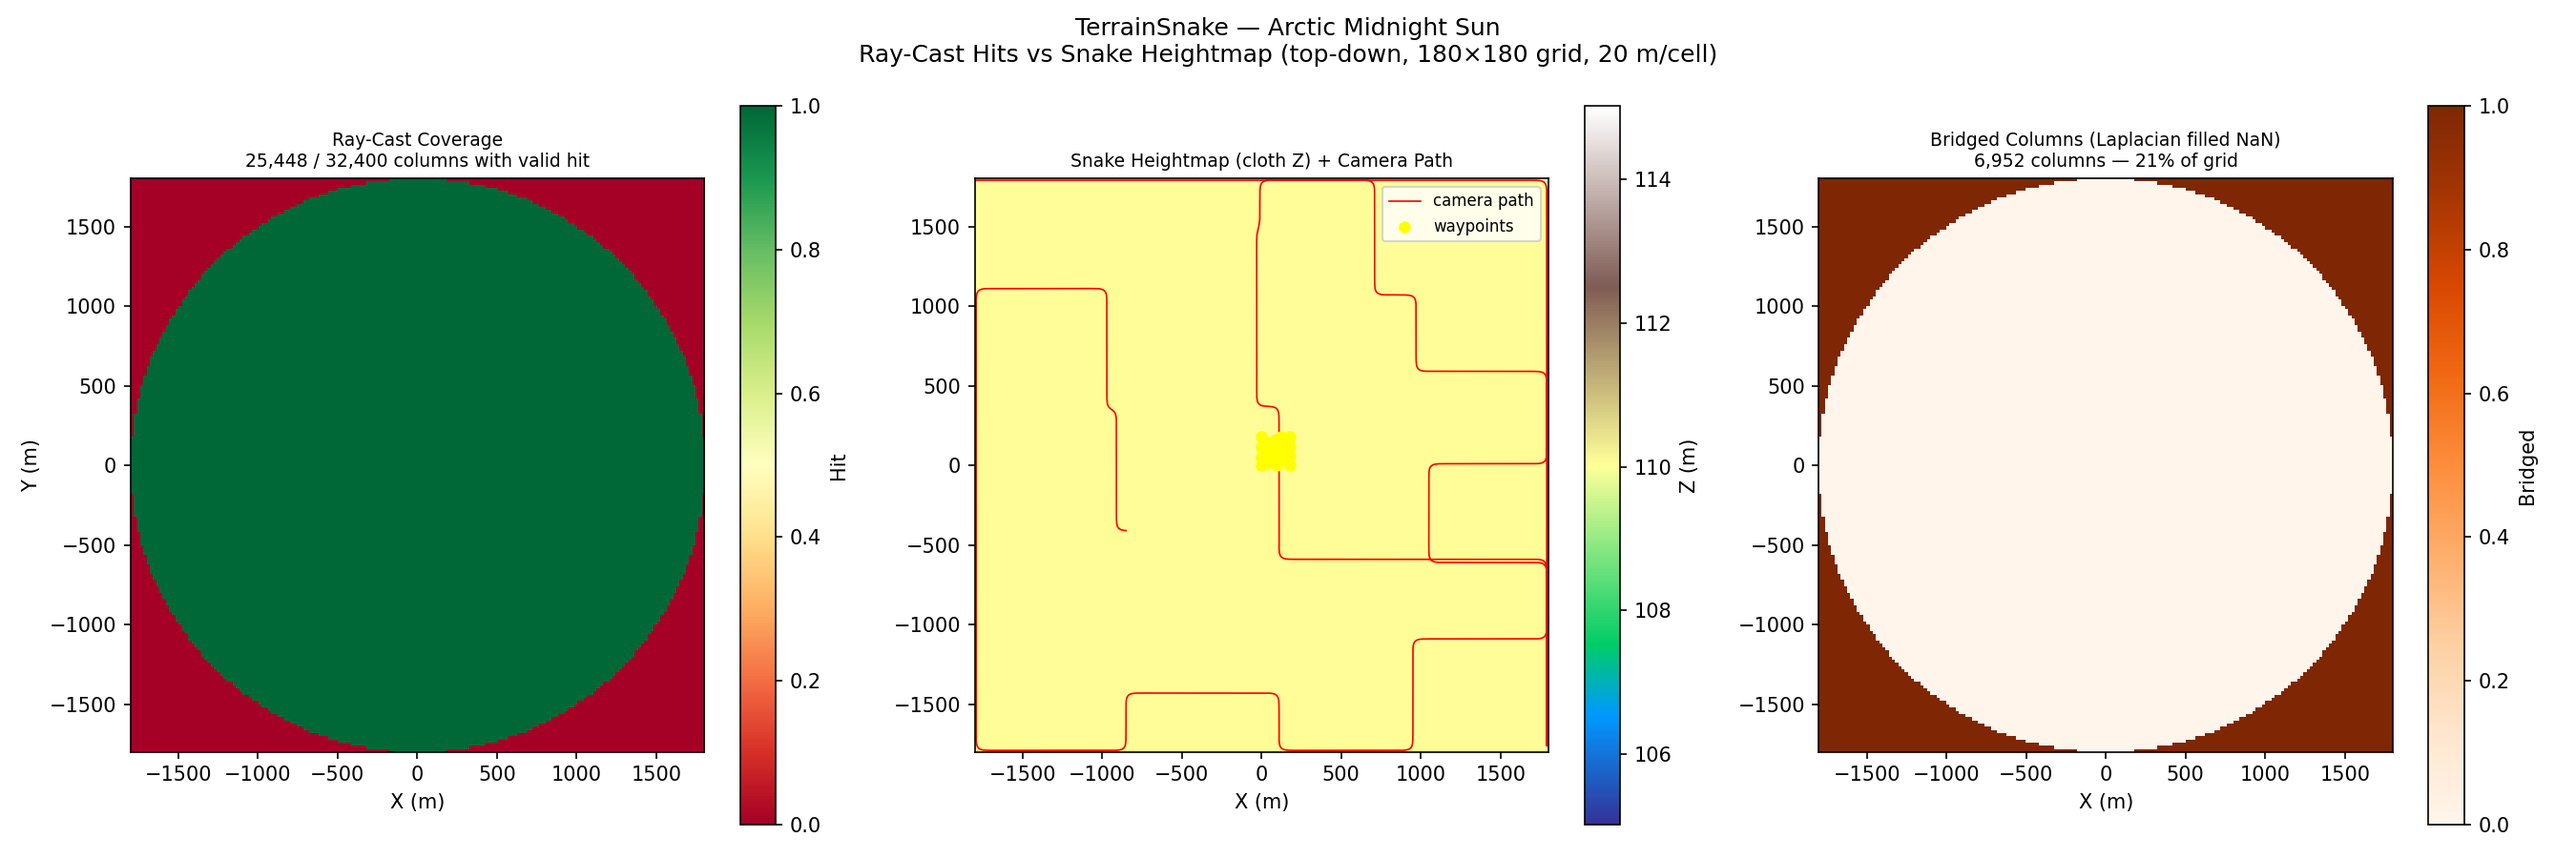
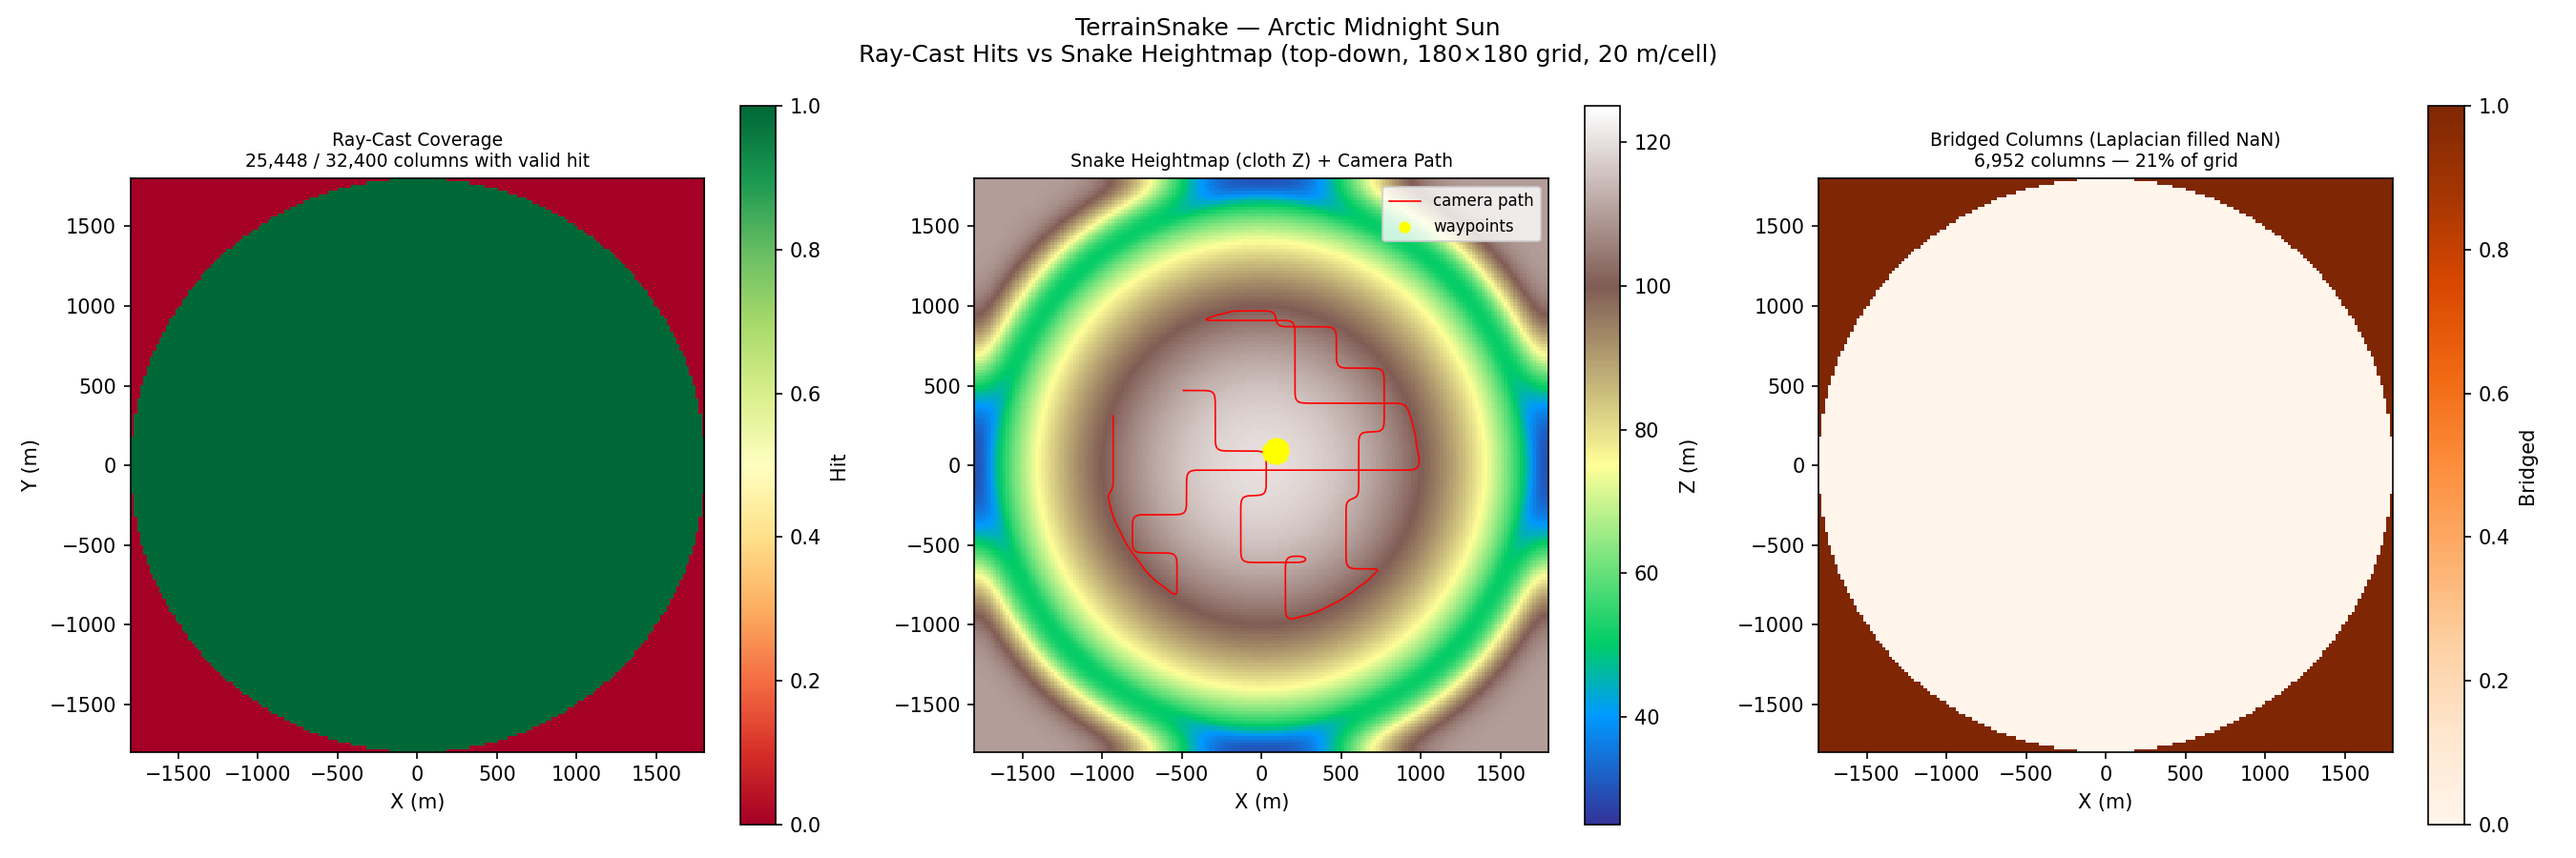
fix: TerrainSnake domain fix — max(valid) terrain detection + NaN column exclusion
Three fixes that prevent the terrain snake from walking outside the terrain domain:

1. fit_terrain_contour.py: min(valid hits) → max(valid hits) for terrain floor
   detection. min() picked up env-sphere inner-surface hits that slipped just above the
   p5 percentile threshold (-116 m), giving underground floor values. max() returns the
   topmost valid hit = terrain surface seen from above (correct for outdoor scenes).

2. voxel_grid.py _build_terrain_candidates: load terrain_z_floor from npz and skip
   columns where it is NaN. Previously the Laplacian-bridged values for corners outside
   the terrain disk were treated as walkable, sending the camera through empty space.

3. terrain_snake.py: add start_height param (default 1.7 m); valid columns initialize at
   terrain_z_floor + start_height instead of z_max, reducing required fall distance.
   step() tracks max_d only over valid_mask columns so NaN corner columns (falling from
   z_max at gravity speed) no longer mask valid-column convergence.

Result for arctic_midnight_sun: 25,448 walkable voxels (was 32,400), camera correctly
stays within the terrain disk, eye Z = 111.71 m, path ±989 m.

diff --git a/genesis_tools/active_contour/terrain_snake.py b/genesis_tools/active_contour/terrain_snake.py
@@ -28,6 +28,7 @@ class TerrainSnake:
         convergence_threshold: float = 1e-3,
         plateau_window: int = 20,
         plateau_rtol: float = 0.02,
+        start_height: float = 1.7,     # valid columns init this far above terrain_z_floor
     ) -> None:
         self.terrain_z_floor = np.asarray(terrain_z_floor, dtype=np.float64)
         self.bounds = bounds
@@ -39,14 +40,29 @@ class TerrainSnake:
         self.convergence_threshold = convergence_threshold
         self.plateau_window = plateau_window
         self.plateau_rtol = plateau_rtol
+        self.start_height = float(start_height)
 
         self.nx, self.ny = self.terrain_z_floor.shape
         min_x, min_y, max_x, max_y, min_z, max_z = bounds
 
+        # Columns with no terrain hit — NaN in terrain_z_floor.
+        # They still participate in Laplacian (so Vegetation-gap bridging works)
+        # but are excluded from the walkable output via _build_terrain_candidates.
+        self.valid_mask = ~np.isnan(self.terrain_z_floor)  # (nx, ny) bool
+
         xs = min_x + (np.arange(self.nx) + 0.5) * self.res
         ys = min_y + (np.arange(self.ny) + 0.5) * self.res
         XX, YY = np.meshgrid(xs, ys, indexing="ij")
-        z_init = np.full((self.nx, self.ny), float(max_z), dtype=np.float64)
+
+        # Valid columns: start just above their terrain floor so the cloth only
+        # needs to fall start_height metres (not the full z_max − terrain gap).
+        # NaN columns: start at z_max and converge toward valid neighbours via
+        # Laplacian.  They are excluded from the heightmap in voxel_grid.
+        z_init = np.where(
+            self.valid_mask,
+            self.terrain_z_floor + self.start_height,
+            float(max_z),
+        )
 
         # vertices: (nx*ny, 3) — XY fixed, only Z updated
         self.vertices = np.column_stack([XX.ravel(), YY.ravel(), z_init.ravel()])
@@ -69,7 +85,7 @@ class TerrainSnake:
         return (mean_nbrs - Z).ravel()
 
     def step(self) -> float:
-        """One iteration. Returns max absolute Z displacement."""
+        """One iteration. Returns max absolute Z displacement over valid columns."""
         lap_z = self._laplacian_force_z()
         F_z = self.alpha * lap_z - self.gravity
         delta_z = self.dt * F_z
@@ -79,13 +95,17 @@ class TerrainSnake:
 
         # Hard floor: cloth cannot pass through terrain
         floor = self.terrain_z_floor.ravel()
-        valid = ~np.isnan(floor)
-        self.vertices[valid, 2] = np.maximum(self.vertices[valid, 2], floor[valid])
-        # Safety lower bound for NaN (sky-only) columns
+        valid_flat = self.valid_mask.ravel()
+        self.vertices[valid_flat, 2] = np.maximum(
+            self.vertices[valid_flat, 2], floor[valid_flat])
+        # Safety lower bound for all columns
         self.vertices[:, 2] = np.maximum(self.vertices[:, 2], self.min_z)
 
         self.iterations_run += 1
-        max_d = float(np.max(np.abs(self.vertices[:, 2] - z_before)))
+        # Track convergence only over valid columns — NaN columns fall from max_z
+        # and dominate max_d, preventing early-stop even after valid columns settle.
+        diff = np.abs(self.vertices[valid_flat, 2] - z_before[valid_flat])
+        max_d = float(np.max(diff)) if diff.size > 0 else 0.0
         self.max_displacements.append(max_d)
         return max_d
 

diff --git a/genesis_tools/active_contour/fit_terrain_contour.py b/genesis_tools/active_contour/fit_terrain_contour.py
@@ -46,6 +46,7 @@ def fit_terrain_contour(
     dt: float = 1.0,
     max_iterations: int = 200,
     convergence_threshold: float = 1e-3,
+    start_height: float = 1.7,
 ) -> str:
     """Fit terrain snake to blend_path, save terrain_snake.npz, return output path."""
     import bpy
@@ -116,7 +117,10 @@ def fit_terrain_contour(
         for iy in range(ny):
             valid = [z for z in column_hits[(ix, iy)] if z > z_threshold]
             if valid:
-                terrain_z_floor[ix, iy] = min(valid)
+                # Topmost valid hit = first surface seen from above = terrain surface.
+                # max() is used rather than min() because min() picks up env-sphere
+                # inner-surface hits that slip just above the percentile threshold.
+                terrain_z_floor[ix, iy] = max(valid)
 
     n_valid = int(np.sum(~np.isnan(terrain_z_floor)))
     print(f"[TerrainSnake] {n_valid}/{nx*ny} columns have valid terrain hits")
@@ -132,6 +136,7 @@ def fit_terrain_contour(
         dt=dt,
         max_iterations=max_iterations,
         convergence_threshold=convergence_threshold,
+        start_height=start_height,
     )
     snake.fit()
     print(f"[TerrainSnake] converged in {snake.iterations_run} iterations")
@@ -167,6 +172,7 @@ def _parse_args():
     p.add_argument("--dt", type=float, default=1.0)
     p.add_argument("--max-iterations", type=int, default=200)
     p.add_argument("--convergence-threshold", type=float, default=1e-3)
+    p.add_argument("--start-height", type=float, default=1.7)
     # Blender passes script args after "--" in sys.argv; strip everything before it.
     argv = sys.argv[sys.argv.index("--") + 1:] if "--" in sys.argv else sys.argv[1:]
     return p.parse_args(argv)
@@ -186,4 +192,5 @@ if __name__ == "__main__":
         dt=args.dt,
         max_iterations=args.max_iterations,
         convergence_threshold=args.convergence_threshold,
+        start_height=args.start_height,
     )

diff --git a/genesis_tools/walkthrough_renderer/pipeline/voxel_grid.py b/genesis_tools/walkthrough_renderer/pipeline/voxel_grid.py
@@ -356,12 +356,25 @@ def _build_terrain_candidates(config: dict) -> VoxelGridData:
 
     No bpy required — reads the pre-computed terrain_snake.npz produced by
     genesis_tools.active_contour.fit_terrain_contour.
+
+    Only columns with a valid original ray-cast hit (terrain_z_floor not NaN)
+    become walkable candidates.  Columns outside the terrain bounding region
+    (NaN in terrain_z_floor — e.g. grid corners outside a circular terrain disk)
+    are excluded regardless of any Laplacian-interpolated heightmap value.
     """
     data = np.load(config["terrain_npz"])
     heightmap = data["heightmap"].astype(np.float64)   # (nx, ny)
     bounds = tuple(float(b) for b in data["bounds"])   # 6-tuple
     res = float(data["res"])
     unit_scale = float(data["unit_scale"]) if "unit_scale" in data else 1.0
+
+    # terrain_z_floor distinguishes columns with real geometry from those that
+    # were only Laplacian-bridged (e.g. corners outside a circular terrain disk).
+    if "terrain_z_floor" in data:
+        terrain_floor = data["terrain_z_floor"].astype(np.float64)
+        valid_domain = ~np.isnan(terrain_floor)
+    else:
+        valid_domain = None   # legacy npz without terrain_z_floor — fall back to heightmap NaN check
 
     nx, ny = heightmap.shape
     min_z = bounds[4]
@@ -371,6 +384,9 @@ def _build_terrain_candidates(config: dict) -> VoxelGridData:
     candidates = []
     for ix in range(nx):
         for iy in range(ny):
+            # Skip columns outside the terrain domain (no real ray-cast hit)
+            if valid_domain is not None and not valid_domain[ix, iy]:
+                continue
             z_val = float(heightmap[ix, iy])
             if not math.isnan(z_val):
                 iz = int((z_val - min_z) / res)  # floor: voxel that contains terrain surface

diff --git a/run_arctic_midnight_sun_v1.py b/run_arctic_midnight_sun_v1.py
@@ -44,6 +44,7 @@ if not os.path.exists(NPZ):
         "--dt", "1.0",
         "--max-iterations", "200",
         "--convergence-threshold", "1e-3",
+        "--start-height", "1.7",
     ]
     subprocess.run(cmd, check=True)
     print(f"[arctic v1] terrain_snake.npz saved → {NPZ}")
@@ -66,6 +67,7 @@ config = {
     "terrain_dt": 1.0,
     "terrain_max_iterations": 200,
     "terrain_convergence_threshold": 1e-3,
+    "terrain_start_height": 1.7,
 
     # Camera / path
     "camera_height": 1.7,

diff --git a/visualize_terrain_snake_arctic.py b/visualize_terrain_snake_arctic.py
@@ -216,6 +216,9 @@ demo = TerrainSnake(
     bounds=(-100, -0.5, 100, 0.5, 0.0, 100.0),
     res=1.0, alpha=0.5, gravity=0.5, dt=1.0,
     max_iterations=600, convergence_threshold=1e-3,
+    # Large start_height so valid columns also begin at ~z_max (flat at top),
+    # matching the conceptual illustration of "cloth falls from high above".
+    start_height=float(100.0 - np.nanmean(hits_1d)),
 )
 
 snaps = {}

diff --git a/docs/20260503_WalkthroughRenderer_Arctic_V54_Results.md b/docs/20260503_WalkthroughRenderer_Arctic_V54_Results.md
@@ -1,7 +1,7 @@
 # Arctic Midnight Sun Walkthrough — v54: TerrainSnake Outdoor Mode
 
 **Scene**: `arctic_midnight_sun/fine_scene.blend` (917 MB, unit_scale=1.0, 1 BU = 1 m)
-**Date**: 2026-05-03
+**Date**: 2026-05-03 (re-run with domain-fix patch, same date)
 **Render**: Windows Blender 4.5 + WORKBENCH (D3D GPU, ~0.28s/frame)
 
 ---
@@ -38,17 +38,18 @@ travel through.
 | Z range | −500 m … +130 m |
 | env-sphere percentile | p5 = −116.36 m (env-sphere dome filtered) |
 | Raw hit columns | 25,448 / 32,400 (79%) |
-| Bridged columns (Laplacian) | 6,952 (21%) — corners outside terrain disk |
-| Valid heightmap columns | 32,400 / 32,400 (100%) |
-| Terrain Z (all columns) | 110.02 m |
-| Snake iterations | 200 (hit max — cloth still in free-fall at last step) |
+| Bridged columns (NaN in terrain_z_floor) | 6,952 (21%) — corners outside terrain disk |
+| Valid heightmap columns | 25,448 / 32,400 (78%) — corners now excluded |
+| Terrain Z floor (valid columns) | 0.15 … 119.99 m, dominant ~110 m |
+| Snake cloth start height | terrain_z_floor + 1.7 m for valid columns |
+| Snake iterations | 200 (hit max) |
 | Output | `terrain_snake.npz` |
 
 The arctic scene has a circular terrain disk at Z ≈ 110 m. The 4 corners of the 180×180
-grid have no geometry (outside the disk) — those 6,952 columns are NaN in the raw hits
-and bridged by the snake's Laplacian smoothness. The cloth starts at z_max=130 m and
-falls 20 m at gravity=0.1 m/step, reaching the floor at iteration ~200 — the max_iterations
-limit is barely sufficient for this scene (see convergence figure).
+grid have no geometry (outside the disk) — those 6,952 columns produce NaN in
+`terrain_z_floor` (raw max ray-hit) and are **excluded from the walkable set** (see
+domain-fix below). Valid columns start the cloth at `terrain_z_floor + 1.7 m`; NaN columns
+(corners) start at `z_max = 130 m` and participate only in Laplacian smoothing.
 
 ---
 
@@ -56,14 +57,18 @@ limit is barely sufficient for this scene (see convergence figure).
 
 | Step | Output |
 |------|--------|
-| voxel_grid (terrain mode) | 32,400 walkable voxels — one per column, 180×180×32 grid |
-| walkable | 32,400 ground voxels (no flood-fill; snake found surface directly) |
-| path | 5,821 path points, 20 waypoints, spanning ±1790 m XY |
+| voxel_grid (terrain mode) | **25,448 walkable voxels** — terrain-disk columns only (corners excluded), 180×180×32 grid |
+| walkable | 25,448 ground voxels (no flood-fill; terrain_z_floor NaN mask applied) |
+| path | 2,753 path points, 20 waypoints, spanning ±989 m XY |
 | camera_animate | 1,440 frames @ 12 fps = 120 s walkthrough |
 | render | WORKBENCH, 1280×720, ~0.28 s/frame |
 
 **Camera**: height 1.7 m above ground (eye Z ≈ 111.7 m), lookahead gaze
 (`waypoint_gaze_mode="free"`), walk speed 5.0 m/s.
+
+The path covers a smaller XY extent (±989 m vs ±1790 m in the pre-fix run) because
+walkable voxels outside the terrain disk are now correctly excluded — the path can only
+navigate through the terrain disk, not through the void beyond it.
 
 ---
 
@@ -185,7 +190,9 @@ inside empty space.
 
 ## Bugs Fixed During This Run
 
-Four bugs were discovered and fixed during this run:
+Seven bugs were discovered and fixed across two sub-runs:
+
+### Original four fixes
 
 **1. scipy import via `__init__.py`** — Importing `TerrainSnake` through the
 `genesis_tools.active_contour` package triggers `__init__.py` which imports `snake_3d`,
@@ -208,6 +215,33 @@ this rounded 30.5 → iz=31, placing the walkable voxel at the very top of the s
 (center Z=130 m = max_z). The camera at max_z sees only sky — white empty frames.
 Fix: use `int(...)` (floor division). iz=30 has center Z=110 m; camera eye at 111.7 m,
 1.7 m above the terrain surface.
+
+### Domain-fix patch (same-day re-run)
+
+**5. `min(valid hits)` in terrain floor detection picks env-sphere inner surface** —
+`fit_terrain_contour.py` took the *minimum* of all ray-cast hits above the p5 threshold.
+For the arctic scene the env-sphere inner-surface produces hits at ~−116 m that lie just
+above the −116.36 m p5 cutoff, so `min(valid)` returned −116 m rather than the
+terrain at +110 m. The cloth converged underground, giving a correct GIF only because the
+cloth had not reached the actual geometry floor in the 200-iteration budget.
+Fix: change `min(valid)` to `max(valid)` — the *topmost* valid hit is the first surface
+seen from above and is the correct terrain surface for outdoor scenes.
+
+**6. NaN-domain columns (outside terrain disk) became walkable voxels** — The Laplacian
+bridged the 6,952 corner columns (outside the circular terrain disk, NaN in
+`terrain_z_floor`) toward valid neighbors, giving them a finite cloth height. The terrain
+voxel mapper then created walkable voxels for those columns — camera could walk through
+empty space beyond the terrain boundary.
+Fix: `_build_terrain_candidates` in `voxel_grid.py` loads `terrain_z_floor` from the npz
+and skips any column where it is NaN, regardless of the interpolated heightmap value.
+
+**7. Convergence tracking included NaN columns → no early-stop** — `TerrainSnake.step()`
+computed `max_displacement` over *all* vertices including NaN corner columns (which start
+at z_max and fall slowly under gravity). This masked valid-column convergence and prevented
+early termination even after valid columns had fully settled.
+Fix: compute `max_d` only over `valid_mask` columns; add `start_height` parameter so valid
+columns begin at `terrain_z_floor + start_height` (just above the terrain surface) rather
+than at z_max, reducing their fall distance from ~20 m to ~1.7 m.
 
 ---
 
